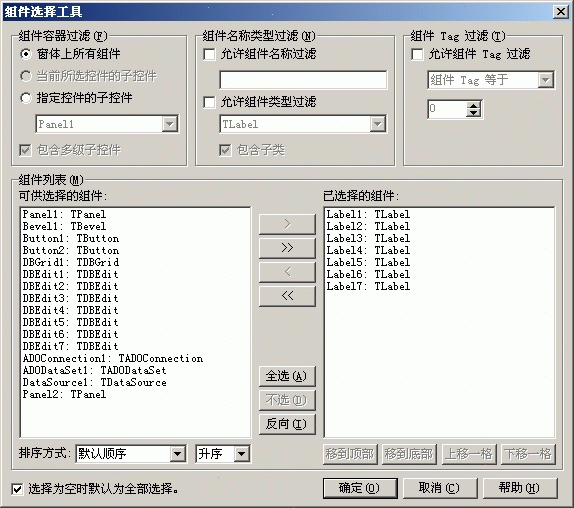
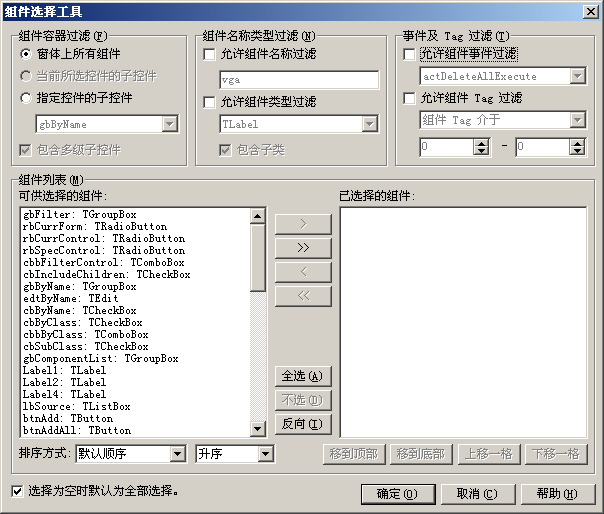
* [Help] 更新组件选择帮助 / Update help of Comp Selector.

Changed region(s): [[0.0, 0.0, 1.0, 1.0]]

diff --git a/cnwizards/Help/CnWizards_ENU/wizards/componentselector.htm b/cnwizards/Help/CnWizards_ENU/wizards/componentselector.htm
@@ -33,6 +33,7 @@
 </ul></li>
 <li><p align="left" class="text"><b>Enable Component Name Filter</b>: If this checkbox was checked, only those components whose name contains input text will appear in "Components' List" Listbox.</p></li>
 <li><p align="left" class="text"><b>Enable Component Type Filter</b>: Filter component list by component classname.</p></li>
+<li><p align="left" class="text"><b>Enable Event Filter</b>: Filter component list by component event.</p></li>
 <li><p align="left" class="text"><b>Enable Tag Filter</b>: Filter component list by component Tag.</p></li>
 <li><p align="left" class="text"><b>Components' List</b>: There's 7 buttons between the two listbox. They are:</p>
 <ul>
